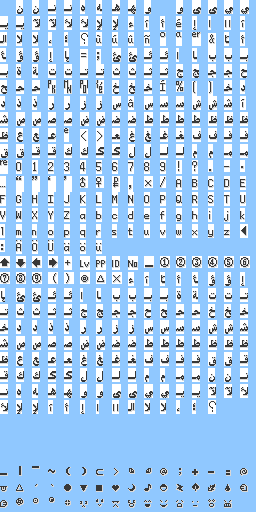
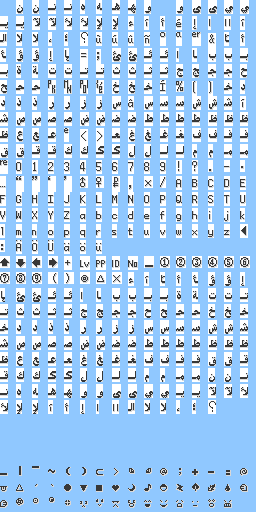
Arabic tails get their shadow; options values no longer clipped
- normal fonts: Arabic glyphs sit one row higher (every glyph had a free
  top row), and tails that end on the new last-but-one row (ل، ر، و، ي،
  ع…) get the shadow they had no room for, so they no longer look cut
- options: each value clears exactly one row ((height - 1) px): the full
  height overlapped the row above by one pixel

diff --git a/tools/arabic/import_font_kit.py b/tools/arabic/import_font_kit.py
@@ -49,6 +49,19 @@ def condense(cell, keep_min=4, max_cut=2):
             j += 1
     return [list(r) for r in zip(*cols)]
 
+def add_tail_shadow(cell):
+    """Normal fonts: glyphs are taken one row higher (every Arabic glyph has a free top
+    row), which frees the bottom row; tails that now end on the row above it (ل، ر، و،
+    ي، ع…) get the shadow they had no room for, so they no longer look cut off."""
+    rows = [list(r) for r in cell]
+    h = len(rows)
+    for x, v in enumerate(rows[h - 2]):
+        if v == 1:
+            for dx in (0, 1):
+                if x + dx < len(rows[h - 1]) and rows[h - 1][x + dx] == 3:
+                    rows[h - 1][x + dx] = 2
+    return rows
+
 def build_cell(src, cp, row_offset, rows, max_width):
     ink_cols = [x for x in range(8) if any(src[x, y] == 3 for y in range(16))]
     l, r = min(ink_cols), max(ink_cols)
@@ -74,7 +87,7 @@ def main():
     for i, (key, info) in enumerate(entries):
         cp = int(key[2:], 16)
         src = Image.open(os.path.join(KIT, info['regular'])).load()
-        cells[CODES[i]] = (cp, build_cell(src, cp, ROW_OFFSET, GLYPH_ROWS, 16))
+        cells[CODES[i]] = (cp, add_tail_shadow(build_cell(src, cp, ROW_OFFSET + 1, GLYPH_ROWS, 16)))
         small_cells[CODES[i]] = (cp, condense(build_cell(src, cp, SMALL_ROW_OFFSET, SMALL_ROWS, 8)))
 
     for name in SHEETS:

diff --git a/src/option_menu.c b/src/option_menu.c
@@ -478,7 +478,13 @@ static void BufferOptionMenuString(u8 selection)
     memcpy(dst, sOptionMenuTextColor, 3);
     x = 0x82;
     y = ((GetFontAttribute(FONT_NORMAL, FONTATTR_MAX_LETTER_HEIGHT) - 1) * selection) + 2;
+#if TEXT_RTL
+    // Rows are (height - 1) apart: clearing a full height erased the bottom pixel
+    // row of the value above (the tails of ل، ي، و، ع), so clear exactly one row.
+    FillWindowPixelRect(1, 1, x, y, 0x46, GetFontAttribute(FONT_NORMAL, FONTATTR_MAX_LETTER_HEIGHT) - 1);
+#else
     FillWindowPixelRect(1, 1, x, y, 0x46, GetFontAttribute(FONT_NORMAL, FONTATTR_MAX_LETTER_HEIGHT));
+#endif
 
     switch (selection)
     {
